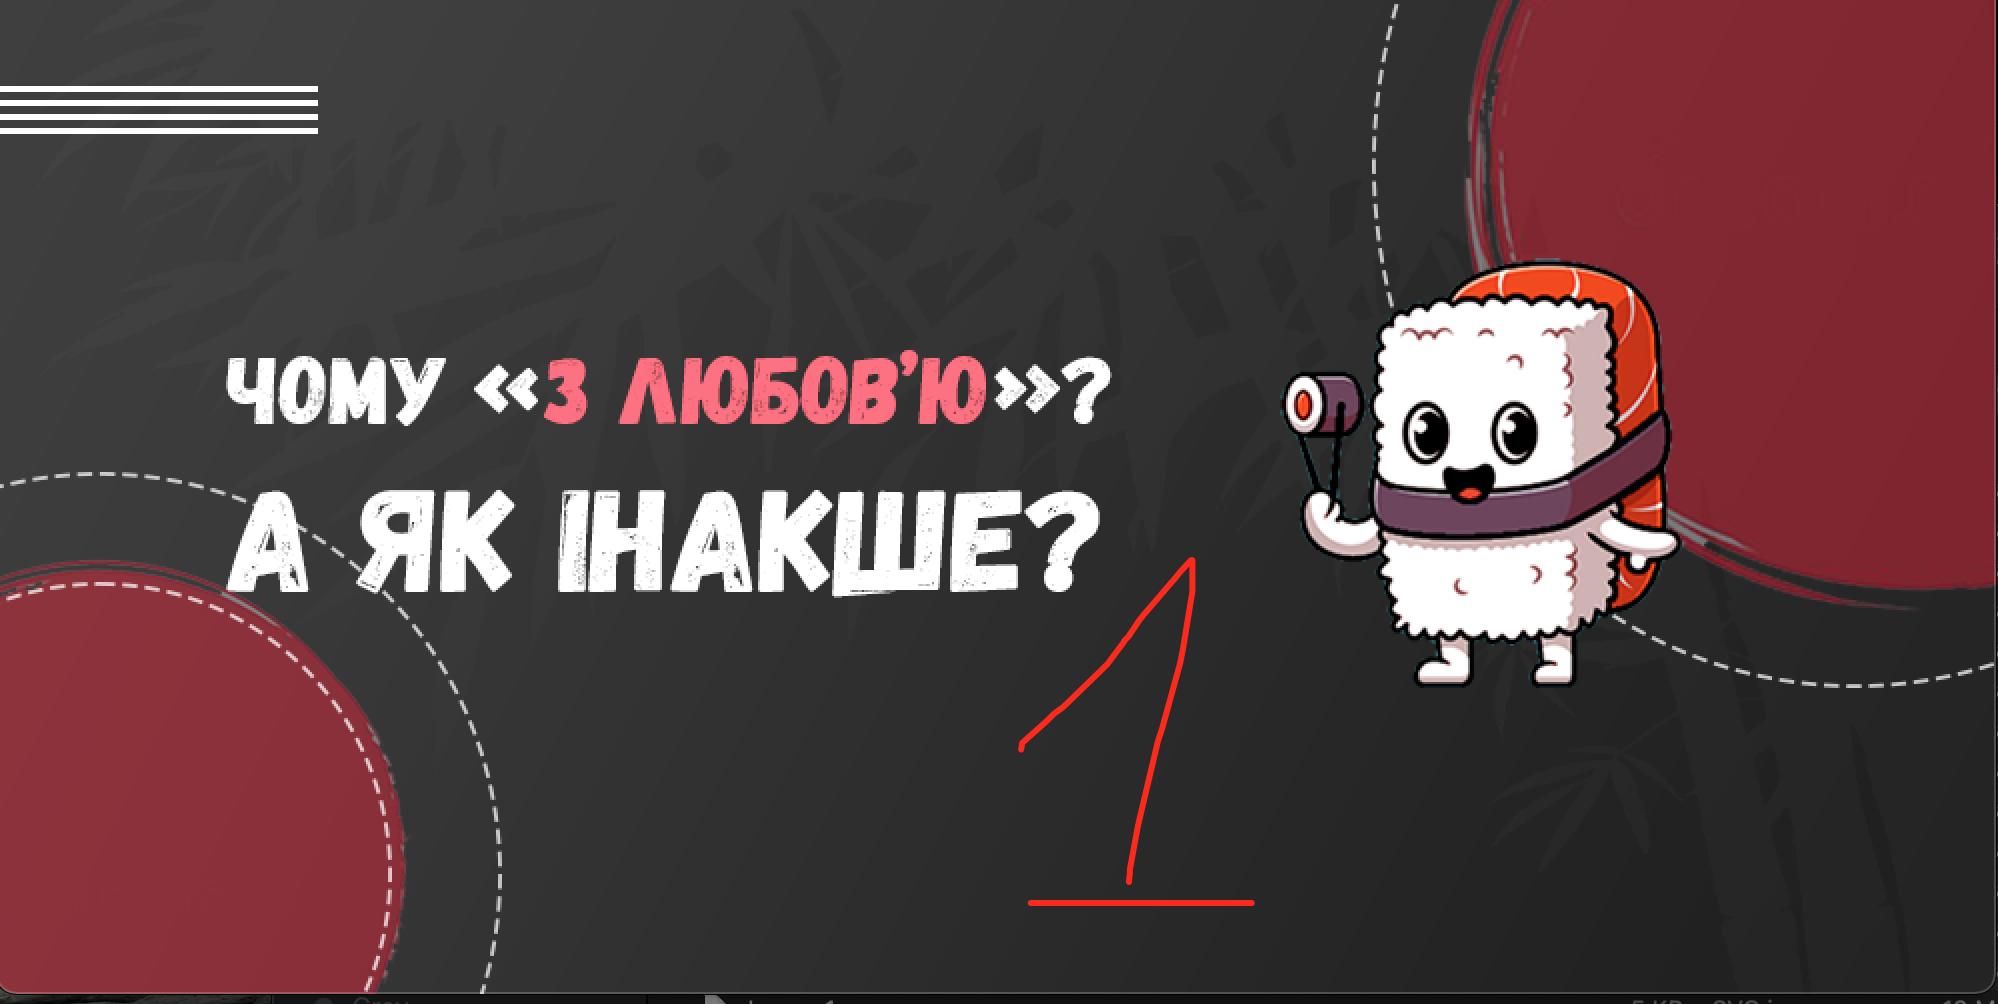
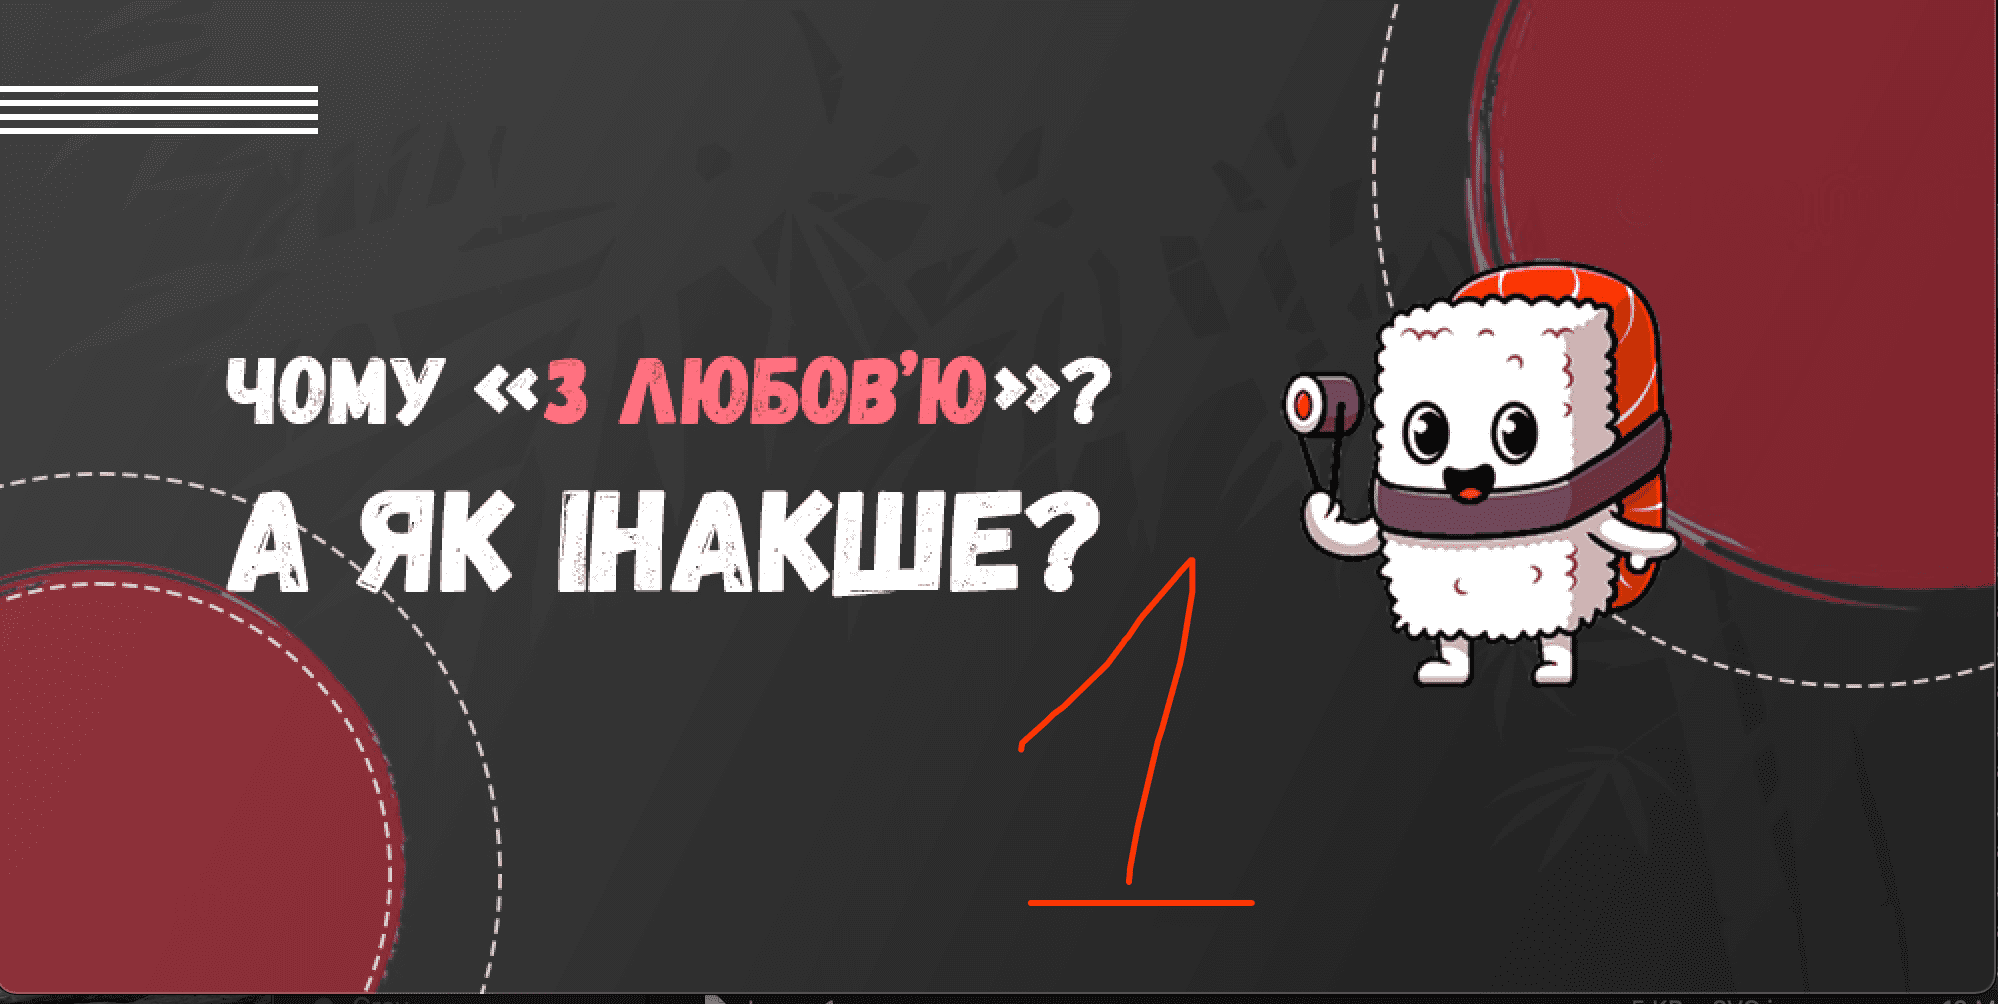
compress images

diff --git a/validations.js b/validations.js
@@ -36,7 +36,7 @@ export const orderCreateValidation = [
     .isLength({ min: 3 })
     .isString(),
   body("phone", "Некоректний номер телефону").isMobilePhone(),
-  body("email", "Некоректна електронна адреса").optional().isEmail(),
+  body("email", "Некоректна електронна адреса").optional().isString(),
   body("city", "Місто повинно бути рядком").isString(),
   body("street", "Вулиця повинна бути рядком").isString(),
   body("house", "Будинок повинен бути рядком").isString(),
